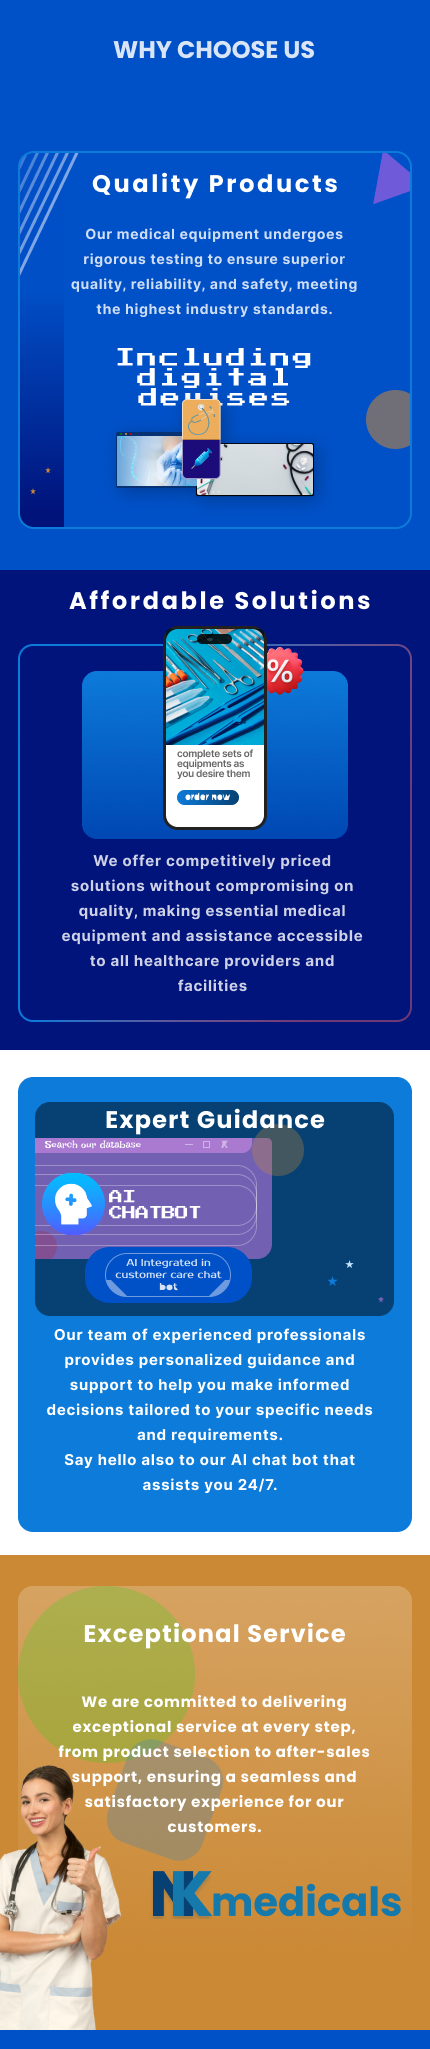
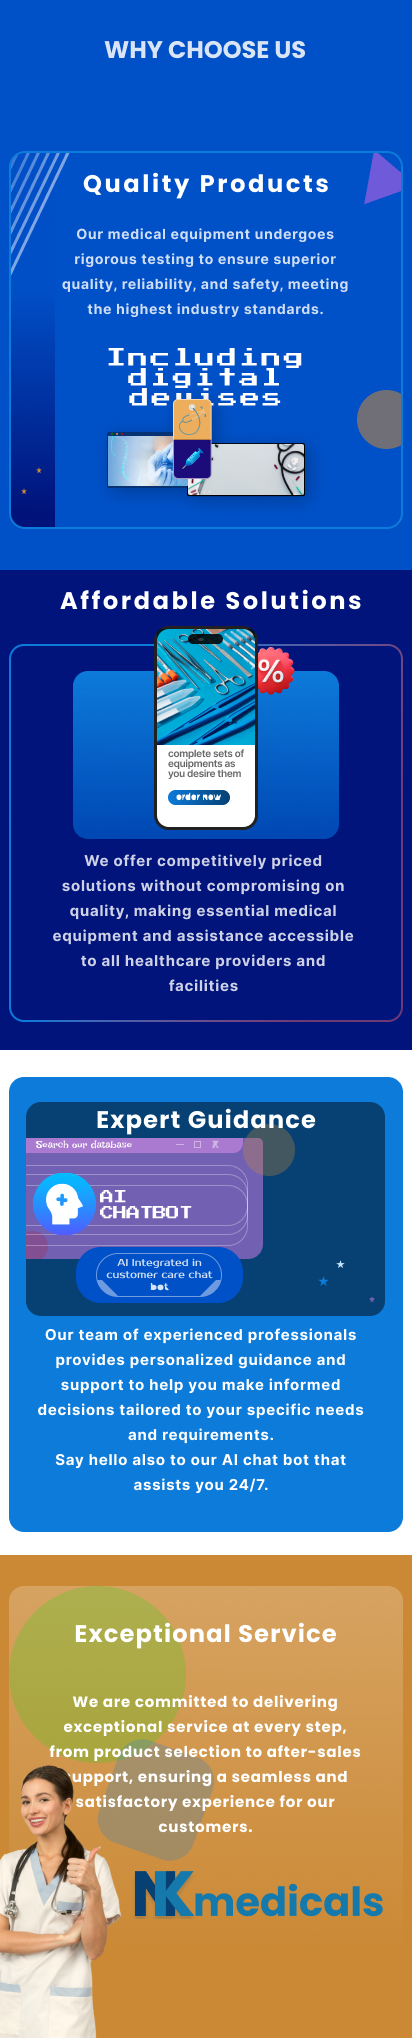
Add files via upload

diff --git a/index.html b/index.html
@@ -30,6 +30,9 @@
[1 lines of base64/hex data omitted]
             </div>
         </div>
+        <div class="mobile-search-bar">
+            <input type="search" name="" id="" placeholder="Search...">
+        </div>
         <nav>
             <div class="logo">
                 <img src="./css/images/nkmedicals logo.svg" alt="">

diff --git a/css/index.css b/css/index.css
@@ -125,11 +125,27 @@
     .second-nav{
         display: none;
     }
-    .mobile-why-choose-us{
+    .mobile-why-choose-us img{
         width: 100%;
     }
     .hero{
         display: none;
+    }
+    
+}
+
+@media only screen and (max-width: 767px) {
+    .mobile-search-bar{
+        display: block;
+        text-align: center;
+    }
+
+    .mobile-search-bar input{
+        padding: 0.4rem 1rem;
+        width: 100%;
+        border-radius: 5px;
+        border-style: 1px solid ;
+        border-color: #074173;
     }
 }
 
@@ -145,6 +161,17 @@
 
 
 
+}
+
+.mobile-search-bar{
+    text-align: center;
+    
+}
+
+.mobile-search-bar input{
+    width: 90%;
+    color: #074173;
+    font-weight: bold;
 }
 
 .mobile-why-choose-us{
